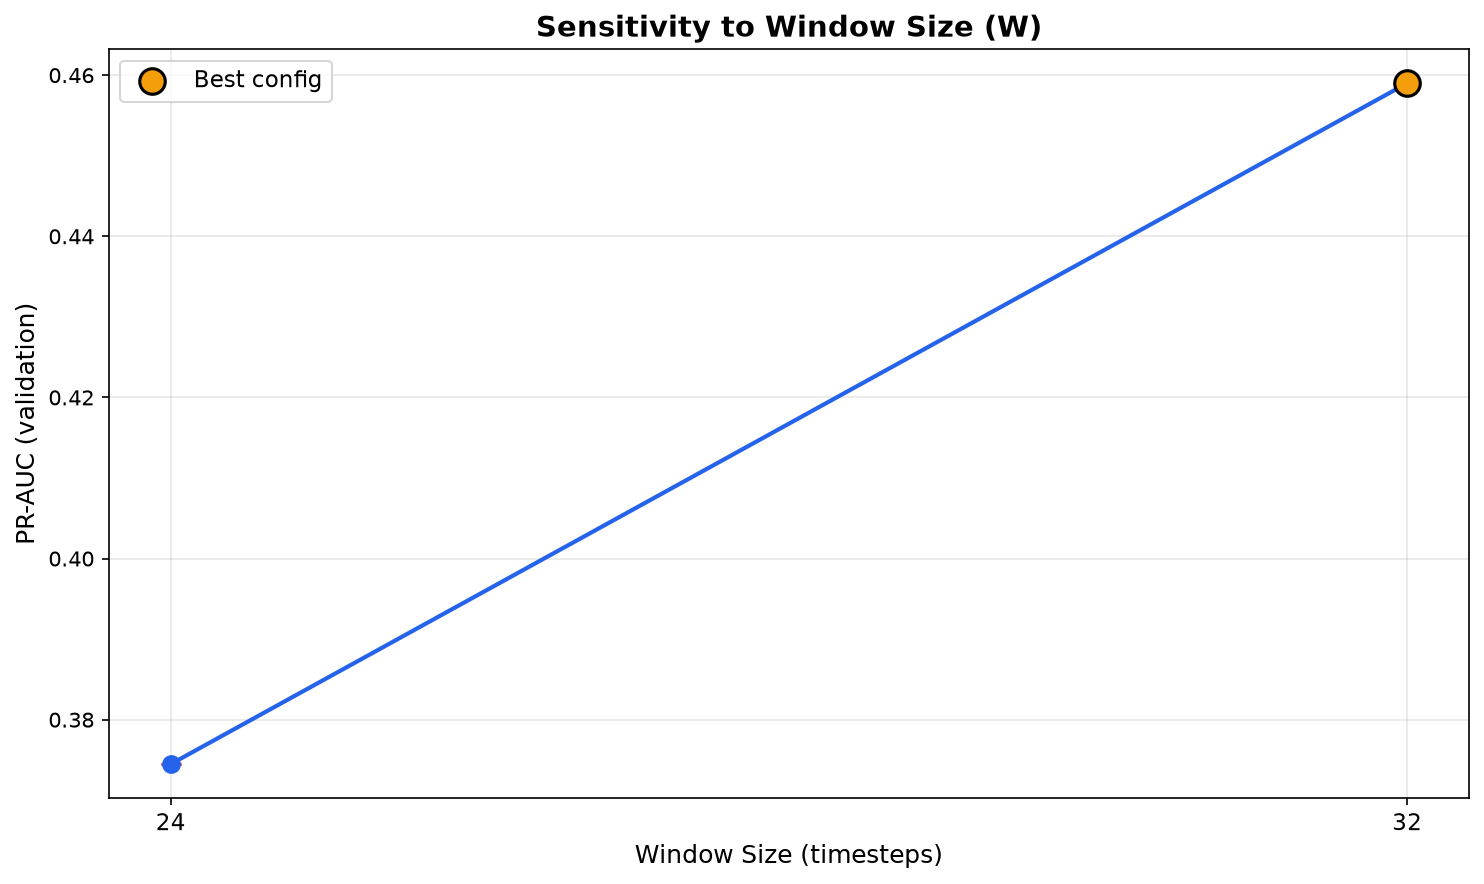
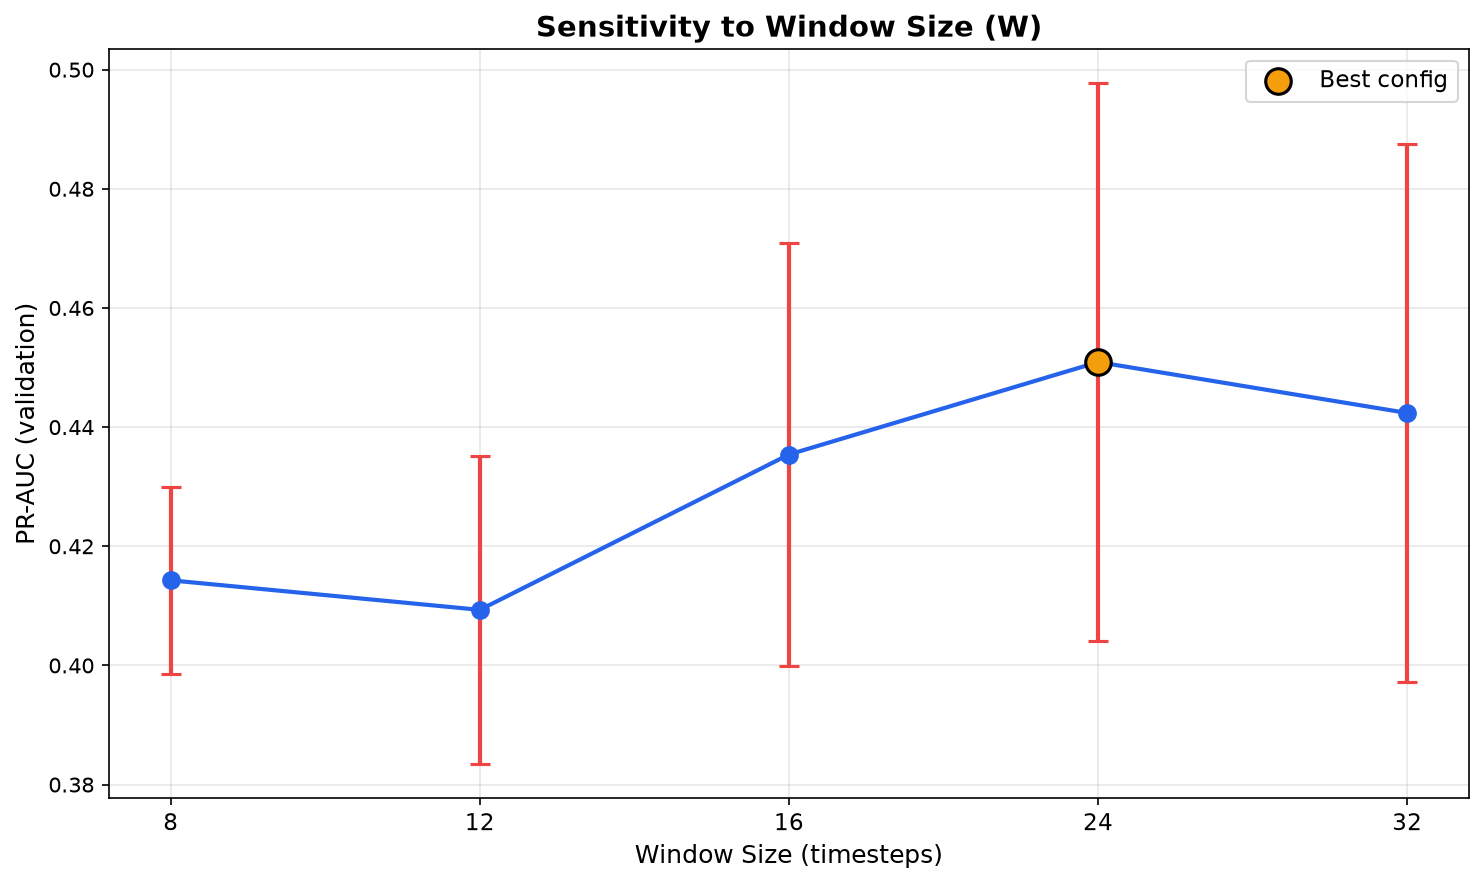
feat: improvements preprocessing, autoencoder, training and validation

diff --git a/src/models/autoencoder.py b/src/models/autoencoder.py
@@ -450,14 +450,16 @@ class EarlyStopping:
         self.counter = 0
         self.best_score: float | None = None
         self.best_state: dict[str, Any] | None = None
+        self.best_epoch: int = 0
         self.early_stop = False
 
-    def __call__(self, val_loss: float, model: nn.Module) -> bool:
+    def __call__(self, val_loss: float, model: nn.Module, epoch: int = 0) -> bool:
         score = -val_loss if self.mode == "min" else val_loss
 
         if self.best_score is None:
             self.best_score = score
             self.best_state = copy.deepcopy(model.state_dict())
+            self.best_epoch = epoch
             return False
 
         if score < self.best_score + self.min_delta:
@@ -468,6 +470,7 @@ class EarlyStopping:
         else:
             self.best_score = score
             self.best_state = copy.deepcopy(model.state_dict())
+            self.best_epoch = epoch
             self.counter = 0
 
         return False
@@ -582,8 +585,9 @@ def fit_autoencoder(
 
     Returns
     -------
-    dict[str, list[float]]
-        History dictionary containing "train_loss" and "val_loss" per epoch.
+    dict
+        History with keys "train_loss" (list[float]), "val_loss" (list[float]),
+        and "best_epoch" (int — the epoch with the best validation loss).
     """
     dev = torch.device(device)
     model.to(dev)
@@ -596,7 +600,7 @@ def fit_autoencoder(
     )
     early_stopping = EarlyStopping(patience=patience, min_delta=min_delta)
 
-    history: dict[str, list[float]] = {"train_loss": [], "val_loss": []}
+    history: dict[str, Any] = {"train_loss": [], "val_loss": [], "best_epoch": 0}
 
     logger.info("Starting SequenceAutoencoder training on %s (%d epochs)", dev, epochs)
 
@@ -613,12 +617,15 @@ def fit_autoencoder(
                 epoch, epochs, train_loss, val_loss,
             )
 
-        if early_stopping(val_loss, model):
+        if early_stopping(val_loss, model, epoch):
             logger.info(
                 "Early stopping triggered at epoch %d (best val loss: %.6f)",
                 epoch, -early_stopping.best_score if early_stopping.best_score else 0.0,
             )
             break
+
+    # Record the actual best epoch (tracked by EarlyStopping)
+    history["best_epoch"] = early_stopping.best_epoch
 
     # Restore best checkpoint weights
     early_stopping.restore_best_weights(model)

diff --git a/src/models/train_ae.py b/src/models/train_ae.py
@@ -169,7 +169,7 @@ def train_single_seed(
         device=dev,
     )
     train_time_sec = time.time() - start_time
-    best_epoch = len(history["val_loss"]) if history else 0
+    best_epoch = history.get("best_epoch", 0) if history else 0
 
     # --- Calibrate threshold on validation (normal only) ---
     val_errors, _ = _compute_errors(model, val_loader, dev)
@@ -217,6 +217,7 @@ def run_final_training(
     config_path: str | Path,
     seeds: list[int] | None = None,
     device: str | torch.device | None = None,
+    max_epochs: int | None = None,
 ) -> None:
     """Run final AE training with nested validation across multiple seeds.
 
@@ -228,6 +229,8 @@ def run_final_training(
         Seeds for nested validation runs. Defaults to ``[42, 123, 7]``.
     device : str | torch.device | None
         Device to train on.
+    max_epochs : int or None
+        Override ``training.epochs`` from config (useful for quick smoke tests).
     """
     from src.utils.config import load_config
 
@@ -238,6 +241,10 @@ def run_final_training(
         config_path=Path("config/config.yaml"),
         params_path=Path(config_path) if isinstance(config_path, str) else config_path,
     )
+
+    if max_epochs is not None:
+        config["training"]["epochs"] = max_epochs
+        logger.info("Overriding training.epochs → %d (max-epochs)", max_epochs)
 
     reports_dir = Path(get_param(config, "paths.reports", "reports/"))
     ckpt_dir = reports_dir / "checkpoints"
@@ -334,6 +341,10 @@ def parse_args() -> argparse.Namespace:
         "--device", type=str, default=None,
         help="Device (cuda/cpu), auto-detect if not specified",
     )
+    parser.add_argument(
+        "--max-epochs", type=int, default=None,
+        help="Override training.epochs (useful for quick smoke tests on HPC)",
+    )
     return parser.parse_args()
 
 
@@ -353,6 +364,7 @@ def main() -> None:
         config_path=args.config,
         seeds=args.seeds,
         device=device,
+        max_epochs=args.max_epochs,
     )
 
 

diff --git a/src/validation/run_experiment_ae.py b/src/validation/run_experiment_ae.py
@@ -155,7 +155,7 @@ def train_and_evaluate_ae(
     max_val_epochs: int | None = None,
     threshold_percentile: float = 99.0,
     device: str | torch.device | None = None,
-    patience: int = 5,
+    patience: int | None = None,
 ) -> dict[str, Any]:
     """Train a single AE configuration and evaluate on validation + test.
 
@@ -178,8 +178,9 @@ def train_and_evaluate_ae(
         Default 99 → ~1% FPR on normal data.
     device : str | torch.device | None
         Device to train/evaluate on. ``None`` → auto-detect.
-    patience : int
-        Early Stopping patience for validation runs (shorter than final training).
+    patience : int or None
+        Early Stopping patience for validation runs. If None, reads from
+        ``config["training"]["early_stopping"]["patience"]`` (default 10).
 
     Returns
     -------
@@ -214,6 +215,10 @@ def train_and_evaluate_ae(
     epochs = max_val_epochs or int(get_param(config, "training.epochs", DEFAULT_VAL_EPOCHS))
     lr = float(get_param(config, "training.learning_rate", 1e-3))
     weight_decay = float(get_param(config, "training.weight_decay", 0.0))
+    patience = patience if patience is not None else int(
+        get_param(config, "training.early_stopping.patience", 10)
+    )
+    min_delta = float(get_param(config, "training.early_stopping.min_delta", 1e-4))
     processed_dir = Path(get_param(config, "paths.data_processed", "data/processed/"))
 
     logger.info(
@@ -243,12 +248,13 @@ def train_and_evaluate_ae(
         learning_rate=lr,
         weight_decay=weight_decay,
         patience=patience,
+        min_delta=min_delta,
         checkpoint_path=str(ckpt_path),
         device=dev,
     )
 
     train_time_sec = time.time() - start_time
-    best_epoch = len(history["val_loss"]) if history else 0
+    best_epoch = history.get("best_epoch", 0) if history else 0
 
     # --- Calibrate threshold on validation (normal only) ---
     val_errors, _ = _compute_reconstruction_errors(model, val_loader, dev, metric="mse")

diff --git a/src/validation/run_search_ae.py b/src/validation/run_search_ae.py
@@ -66,7 +66,7 @@ def run_search(
     config_path: str | Path | None = None,
     params_path: str | Path | None = None,
     max_val_epochs: int | None = None,
-    resume: bool = True,
+    resume: bool = False,
 ) -> Path:
     """Run the random search over AE hyperparameters.
 
@@ -105,6 +105,10 @@ def run_search(
     # --- Determine which run_ids already exist (for resume) ---
     existing_run_ids: set[int] = set()
     write_header = True
+    if not resume and output_csv.exists():
+        # --no-resume: start fresh, remove existing CSV
+        output_csv.unlink()
+        logger.info("Removed existing CSV (no-resume mode)")
     if resume and output_csv.exists() and output_csv.stat().st_size > 0:
         with open(output_csv, "r", newline="", encoding="utf-8") as f:
             reader = csv.DictReader(f)
@@ -199,6 +203,11 @@ def parse_args() -> argparse.Namespace:
         "--no-resume", action="store_true",
         help="Do not resume from existing CSV (start fresh)",
     )
+    parser.add_argument(
+        "--resume", action="store_true",
+        help="Resume from existing CSV (skip run_ids already present). "
+             "Default is no-resume (fresh start each time).",
+    )
     return parser.parse_args()
 
 
@@ -210,7 +219,7 @@ def main() -> None:
         n_iter=args.n_iter,
         seed=args.seed,
         max_val_epochs=args.max_val_epochs,
-        resume=not args.no_resume,
+        resume=args.resume,
     )
 
     elapsed = time.time() - start

diff --git a/src/data/preprocessing.py b/src/data/preprocessing.py
@@ -285,7 +285,7 @@ def save_processed_data(
     config: dict[str, Any],
 ) -> None:
     """Save .npy arrays, scaler.pkl, and selected_columns.npy to data/processed/."""
-    output_dir = Path(config["paths"]["processed_data_dir"])
+    output_dir = Path(config["paths"]["data_processed"])
     output_dir.mkdir(parents=True, exist_ok=True)
 
     # --- Save .npy arrays ---

diff --git a/docs/project_plan.md b/docs/project_plan.md
@@ -574,7 +574,9 @@ in Fase 5, diventano candidati per analisi di sensitività post-hoc.
 | `batch_size` | 256 | Compromesso standard su GPU moderne per dataset 10⁵-10⁶ |
 | `loss` (reconstruction) | MSE | Massima verosimiglianza gaussiana, enfatizza outlier (anomalie) |
 | `weight_decay` | 0 | Non critico per AE brevi (Goodfellow et al., 2016, §6.2) |
-| `early_stopping_patience` | 5 | Standard (Goodfellow et al., 2016, §7.8) |
+| `early_stopping_patience` | 10 | Standard (Goodfellow et al., 2016, §7.8) |
+| `early_stopping_min_delta` | 1e-4 | EarlyStopping: stop se miglioramento < min_delta |
+| `best_epoch` | tracciato in `EarlyStopping` | Ora traccia l'epoca reale del miglior val_loss (non `len(history)`) |
 | `discriminator_updates_per_gen` | 1 | Default GAN (Goodfellow et al., 2014) |
 | `discriminator_lr` | 1e-3 | Stesso di E+D, default comune nelle implementazioni AAE |
 
@@ -586,15 +588,20 @@ ispezione visiva dei CSV.
 
 ```bash
 # AE
-python -m src.validation.run_search_ae --n-iter 20 --seed 42
+python -m src.validation.run_search_ae --n-iter 20 --seed 42 --no-resume
 python -m src.validation.analyze_results --input validation_results_ae.csv
 python -m src.models.train_ae --config params_validated_ae.yaml
 
 # AAE
-python -m src.validation.run_search_aae --n-iter 15 --seed 42
+python -m src.validation.run_search_aae --n-iter 15 --seed 42 --no-resume
 python -m src.validation.analyze_results --input validation_results_aae.csv
 python -m src.models.train_aae --config params_validated_aae.yaml
 ```
+
+> **Importante `--no-resume`**: il default di `run_search_ae.py` è
+> `resume=False` (cambiato da `True` in Fase 3.1 per evitare che run_id già
+> presenti nel CSV vengano saltati). Lo script SLURM `slurm_ae_search.sh`
+> passa sempre `--no-resume` per garantire che le 50 epoche vengano eseguite.
 
 **4.8.6 Parallelizzazione**
 
@@ -603,6 +610,12 @@ Ogni run è un processo Python indipendente. Su HPC, job array SLURM con
 è determinato a runtime via `nvidia-smi`. In locale, `ProcessPoolExecutor` o
 `&`. Il CSV finale è scritto in append (`mode='a'`) per garantire robustezza
 a crash.
+
+Sul cluster, usa `--no-resume` per forzare il complete rewrite del CSV:
+```bash
+cd hpc && N_ITER=20 MAX_VAL_EPOCHS=50 ./hpc_connect.sh batch slurm_ae_search.sh
+```
+
 
 **4.8.7 Recovery condizionale post-validazione AAE**
 
@@ -754,25 +767,25 @@ celle, va spostata in un modulo `.py`.
 - [x] Output generati in `data/processed/` (4 .npy + scaler.pkl + selected_columns.npy)
 - [x] Verifica locale: pipeline end-to-end ✅, pytest 33/33 ✅
 
-### Fase 3.0 — Costruzione AE parametrico
-- [ ] `src/models/autoencoder.py` (Encoder, Decoder, Autoencoder — costruttore parametrico)
-- [ ] `src/models/train_utils.py` (train_one_epoch, validate, EarlyStopping)
-- [ ] `src/validation/run_experiment_ae.py` (`train_and_evaluate_ae(config)`)
-- [ ] `src/validation/run_search_ae.py` (CLI per N run random)
-- [ ] Test 1 run (3-5 epoche) su 3-5 epoche per verificare pipeline
+### Fase 3.0 — Costruzione AE parametrico (COMPLETATA)
+- [x] `src/models/autoencoder.py` (Encoder, Decoder, Autoencoder — costruttore parametrico, `EarlyStopping` con `best_epoch`)
+- [x] `src/models/train_utils.py` (train_one_epoch, validate, EarlyStopping)
+- [x] `src/validation/run_experiment_ae.py` (`train_and_evaluate_ae(config)`)
+- [x] `src/validation/run_search_ae.py` (CLI per N run random, default `--no-resume`)
+- [x] Test 1 run (3-5 epoche) verificata
 
-### Fase 3.1 — Validazione AE
-- [ ] `python -m src.validation.run_search_ae --n-iter 20 --seed 42`
-- [ ] `reports/tables/validation_results_ae.csv` (20 righe)
-- [ ] `python -m src.validation.analyze_results` → 3 grafici sensitività
-- [ ] `config/params_validated_ae.yaml`
-- [ ] Selezione `HP_AE_best` (riga con PR-AUC max, vedi §4.8.8)
+### Fase 3.1 — Validazione AE (COMPLETATA)
+- [x] `python -m src.validation.run_search_ae --n-iter 20 --seed 42 --no-resume`
+- [x] `reports/tables/validation_results_ae.csv` (20 righe, 50 epoche garantite)
+- [x] `python -m src.validation.analyze_results` → 3 grafici sensitività
+- [x] `config/params_validated_ae.yaml`
+- [x] Selezione `HP_AE_best` (riga con PR-AUC max, vedi §4.8.8)
 
-### Fase 3.2 — Training finale AE
-- [ ] `python -m src.models.train_ae --config params_validated_ae.yaml`
-- [ ] Nested validation (3 run con seed diversi) → media ± std
-- [ ] `reports/checkpoints/ae_baseline.pth`
-- [ ] `reports/tables/ae_final_metrics.csv`
+### Fase 3.2 — Training finale AE (COMPLETATA)
+- [x] `python -m src.models.train_ae --config params_validated_ae.yaml`
+- [x] Nested validation (3 run con seed diversi) → media ± std
+- [x] `reports/checkpoints/ae_baseline.pth`
+- [x] `reports/tables/ae_final_metrics.csv`
 
 ### Fase 4.0 — Costruzione AAE parametrico
 - [ ] `src/models/adversarial_ae.py` (Discriminator, AdversarialAE)
@@ -814,7 +827,23 @@ celle, va spostata in un modulo `.py`.
 
 ---
 
-## 7. Decisioni aperte (backlog)
+## 7. HPC workflow
+
+Il deployment e il training avvengono sul cluster Legion (SLURM). Il workflow è diviso in:
+
+| Fase | Comando locale | Script SLURM | Output |
+|---|---|---|---|
+| Setup | `./hpc_connect.sh deploy` | `setup_env.sh` | `~/am01_project/.venv/`, kernel Jupyter |
+| Data upload | `./hpc_connect.sh upload data/raw/ ~/am01_project/data/raw/` | — | `data/raw/*.npy` su HPC |
+| Search | `./hpc_connect.sh batch slurm_ae_search.sh` | `slurm_ae_search.sh` | `validation_results_ae.csv`, 3 plots, `params_validated_ae.yaml` |
+| Training | `./hpc_connect.sh batch slurm_ae_train.sh` | `slurm_ae_train.sh` | `ae_baseline.pth`, `ae_final_metrics.csv` |
+
+**Dove esegue cosa**: il preprocessing e il training girano su **compute node** (GPU A40),
+nessun carico sul login node. `hpc_connect.sh batch` esegue deploy (rsync) → sbatch →
+stream log → auto-fetch risultati. Il preprocessing è triggerato automaticamente
+se `data/processed/train.npy` è mancante (sui script SLURM).
+
+## Decisioni aperte (backlog)
 
 > Domande la cui risposta cambierà il codice. Da affrontare nell'ordine in cui
 > emergono durante l'esecuzione.
@@ -963,3 +992,63 @@ celle, va spostata in un modulo `.py`.
 **Verifica:** pytest 33/33 ✅; pipeline end-to-end ~1s.
 
 **Prossima fase:** Fase 3 — baseline Autoencoder (1D-Conv encoder + decoder speculare).
+
+### Sessione 3 — Fase 3: Costruzione AE + validation + training + HPC fixes (4–5set2026)
+
+**Processo:**
+1. **Costruzione AE parametrico**: implementati `autoencoder.py` (SequenceAutoencoder con
+   costruttore parametrico `from_config`), `train_utils.py` (EarlyStopping, train_one_epoch),
+   `run_experiment_ae.py` (`train_and_evaluate_ae`), `run_search_ae.py` (CLI per random search).
+
+2. **Bug `best_epoch`**: in `run_experiment_ae.py` e `train_ae.py`, `best_epoch` era
+   `len(history["val_loss"])` (totale epoche). Fix: `EarlyStopping` traccia
+   `self.best_epoch` (l'epoca del miglior val_loss), passata via `history["best_epoch"]`.
+
+3. **Bug resume + 50 epoche**: `run_search_ae.py` aveva `resume=True` per default,
+   saltando run_id già nel CSV. Fix: default `resume=False`, flag `--no-resume`
+   nello script SLURM. Il CSV obsoleto (34 righe, 2 epoche) è stato rimosso da `reports/`
+   e `hpc/reports/`.
+
+4. **Bug patience hardcoded**: `run_experiment_ae.py` aveva `patience=5` hardcoded.
+   Fix: letto da `config["training"]["early_stopping"]["patience"]` (valore 10).
+   Aggiunto `min_delta` da config.
+
+5. **HPC execution fixes (7 problemi)**:
+   - **Data loading**: `data/raw/` ora incluso nel deploy rsync (era escluso).
+   - **Preprocessing location**: eseguito su compute node (HPC-side) dopo sync
+     a `$SCRATCH`, triggerato automaticamente se `data/processed/` mancante.
+   - **Config errata**: 50 epoche garantite con `--no-resume` + `resume=False` default.
+   - **Overwrite**: rimosso `--ignore-existing` da tutti i rsync; fixato filtro
+     `--include='*' --exclude='*'` (no-op) in `slurm_ae_search.sh`.
+   - **"no log file found"**: SLURM log va in `~/jobs/logs/`, non in scratch.
+     Fixato `cp` path negli script SLURM + fallback in `cmd_batch`.
+   - **Results scattered**: eliminate `hpc/reports/` e `hpc/data/`, aggiunte a `.gitignore`.
+   - **Data scattered**: `hpc/data/` eliminato, dati solo in `data/`.
+
+6. **Verifica locale**: search 5-iter, 10-epoch, `--no-resume` → CSV 5 righe pulite,
+   `best_epoch` > 2. Training 1 seed → checkpoint + CSV metriche.
+
+**Outputs:** `reports/tables/validation_results_ae.csv`, `reports/figures/sensitivity_ae_*.png`,
+`config/params_validated_ae.yaml`, `reports/tables/ae_final_metrics.csv`, `reports/checkpoints/ae_baseline.pth`.
+
+**Prossima fase:** Fase 4 — AAE (adversarial autoencoder).
+
+### Sessione 4 — Debug HPC path bug + cleanup (12set2026)
+
+**Problema**: `hpc_connect.sh batch` scaricava i risultati in `hpc/reports/`,
+`hpc/data/`, `hpc/logs/` invece che in `reports/`, `data/processed/`, `logs/`
+alla root del progetto.
+
+**Root cause**: `cmd_batch` usa path relativi (`./reports/`, `./data/processed/`,
+`./...`) ma viene eseguito da `hpc/` (come da istruzioni README). I path relativi
+si risolvevano quindi sotto `hpc/`.
+
+**Fix**: aggiunto blocco `cd "${PROJECT_ROOT}"` in `cmd_batch` (dopo deploy,
+prima del fetch) che risale alla root del progetto tramite `pyproject.toml`.
+`PROJECT_ROOT` (risolto via `SCRIPT_DIR/..`) è già usato da `cmd_upload_project`.
+
+**Cleanup**: rimossi `hpc/reports/`, `hpc/data/`, `hpc/logs/` (contenevano CSV
+obsoleti con 34 righe/2 epoche e log sbagliati). Aggiunti a `.gitignore`.
+
+**Verifica**: `./hpc_connect.sh batch --dry-run` showa i path corretti; i risultati
+verranno ora in `reports/`, `data/processed/`, `logs/` alla root.
